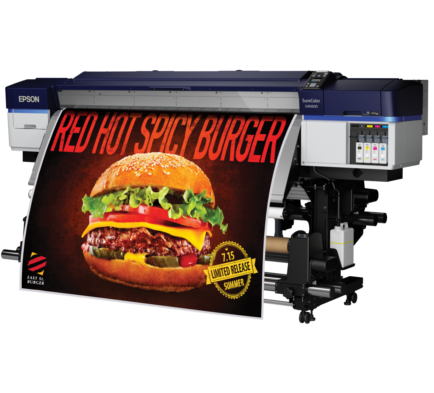
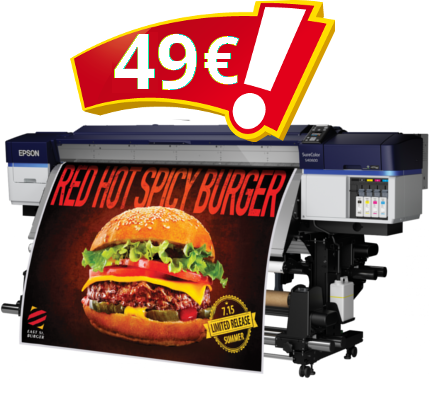
car

diff --git a/index.html b/index.html
@@ -128,13 +128,13 @@
              En Vinilos, Lonas, Vehìculos, Car Wrapping, Luminosos
              </span>
              </p>
-             <div class="links" data-bottomlinks="18%">
+             <div class="links" data-bottomlinks="20%">
               <span>
                <a href="about.html" class="button medium normal">Saber más</a>
                <a href="#" class="button medium black">Trabajos</a>
               </span>
+
              </div>
-           
            </div>
          </div><!-- End Container -->
           
@@ -155,6 +155,26 @@
              </div>
              
              <img src="images/img/sliders/slider-1/slider-item-2.png" class="item" data-topimage="8%"/>
+           
+           </div>
+         </div><!-- End Container -->
+          
+         </li><!-- End item -->
+
+         <li class="slide-bg-color">
+          
+          <div class="container">
+           <div class="sixteen columns contain">
+            
+             <h2 data-toptitle="20%">Oferta especial en impresión</h2>
+             <p data-bottomtext="39%">Vinilo desde 9€ mt2</br>
+             Car Wrapping
+             </p>
+             <div class="links" data-bottomlinks="20%">
+               <a href="contact.html" class="button medium normal">Contactar</a>
+             </div>
+             
+             <img src="images/img/sliders/slider-1/slider-item-3.png" class="item" data-topimage="8%"/>
            
            </div>
          </div><!-- End Container -->
